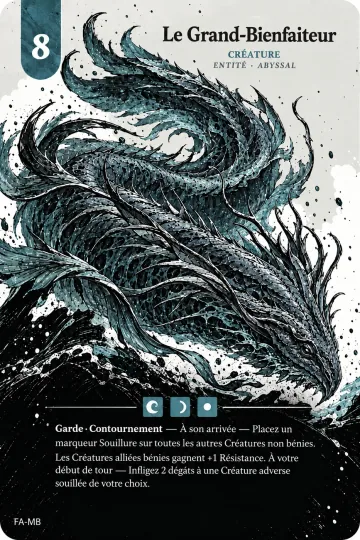
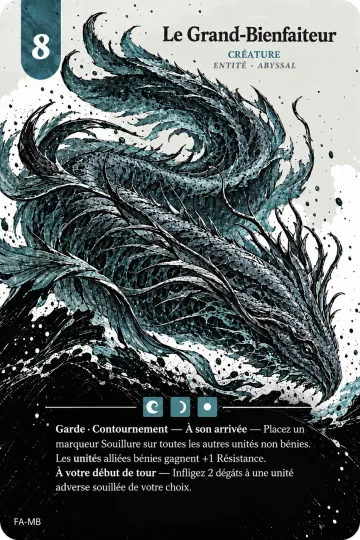
Full-Art repeintes : Gros Bisou !, L'Appât à Moustaches, Le Grand-Bienfaiteur Abyssale, Vigie aux Fissures
Textes peints relus : conformes aux cartes. Le drapeau « à repeindre »
tombe, les quatre Full-Art deviennent obtenables.

Claude-Session: https://claude.ai/code/session_01U6T6kW91yzdAdCqsxsJjLe

diff --git a/game/cosmetics/artworks.ts b/game/cosmetics/artworks.ts
@@ -131,13 +131,8 @@ const ALTERNATE_ARTS: Record<string, CardAlternateArt> = {
     styled: true,
     fullArt: { textePeint: "À l'arrivée : gagne +?/+0 tant qu'il reste en jeu. Réussite critique : gagne Pied marin ce tour. Échec critique : subit 1 dégât." },
   },
-  "gros-bisou": {
-    styled: true,
-    fullArt: {
-      textePeint: "Chaîne — Lorsqu'une Créature adverse attaque, elle perd 2 Puissance pour cette attaque.",
-      aRepeindre: "« une Créature adverse » au lieu de « une unité adverse » (28/10/2026), et la ligne de type peinte dit « Créature — Poisson » pour un Objet.",
-    },
-  },
+  // Repeinte le 28/10/2026 : « une unité adverse », ligne de type « Objet ».
+  "gros-bisou": { styled: true, fullArt: { textePeint: "Chaîne — Lorsqu'une unité adverse attaque, elle perd 2 Puissance pour cette attaque." } },
   "il-capitano-naufrage": { styled: true, fullArt: { textePeint: "La première fois qu'il subit des dégâts, il perd définitivement 3 Puissance et 2 Résistance." } },
   "jugement-du-phare": {
     styled: true,
@@ -153,13 +148,8 @@ const ALTERNATE_ARTS: Record<string, CardAlternateArt> = {
   },
   "la-taverne-avant-le-donjon": { styled: true, fullArt: { textePeint: "Première unité alliée renvoyée en main pendant votre tour : récupérez 1 Ancrage." } },
   "lampe-de-pont-rouge": { styled: true, fullArt: { textePeint: "Équipez un Marin. Tant que vous êtes en Houle ou Tempête, il gagne +1 Puissance." } },
-  "lappat-a-moustaches": {
-    styled: true,
-    fullArt: {
-      textePeint: "Les autres unités Félin gagnent +2/+2.",
-      aRepeindre: "« alliées » manque : la carte dit « Les autres unités Félin alliées gagnent +2/+2. ».",
-    },
-  },
+  // Repeinte le 28/10/2026 : « alliées » rétabli.
+  "lappat-a-moustaches": { styled: true, fullArt: { textePeint: "Les autres unités Félin alliées gagnent +2/+2." } },
   "le-brise-ligne": {
     styled: true,
     // Repeinte le 18/10/2026 : « au moins » rétabli.
@@ -183,12 +173,13 @@ const ALTERNATE_ARTS: Record<string, CardAlternateArt> = {
         "À l'arrivée : sur 4+, gagne Pied marin ce tour. Réussite critique : lorsqu'il attaque ce tour, infligez aussi 2 dégâts au Navire adverse.",
     },
   },
+  // Repeinte le 28/10/2026 : « unités ».
   "le-grand-bienfaiteur-abyssal": {
     styled: true,
     fullArt: {
       textePeint:
-        "Garde · Contournement — À son arrivée — Placez un marqueur Souillure sur toutes les autres Créatures non bénies. Les Créatures alliées bénies gagnent +1 Résistance. À votre début de tour — Infligez 2 dégâts à une Créature adverse souillée de votre choix.",
-      aRepeindre: "« Créature(s) » au lieu de « unité(s) » (décision du 28/10/2026).",
+        "Garde · Contournement — À son arrivée — Placez un marqueur Souillure sur toutes les autres unités non bénies. Les unités alliées bénies gagnent +1 Résistance. À votre début de tour — Infligez 2 dégâts à une unité adverse souillée de votre choix.",
+      ecartMineur: "Mots-clés de tête liés par « · » et un tiret, comme la face de carte, au lieu de « Garde. Contournement. ».",
     },
   },
   "le-nain-qui-connait-un-raccourci": {
@@ -253,11 +244,8 @@ const ALTERNATE_ARTS: Record<string, CardAlternateArt> = {
   },
   "vigie-aux-fissures": {
     styled: true,
-    // Repeinte le 20/10/2026 : « survit à des dégâts » rétabli.
-    fullArt: {
-      textePeint: "La première fois à chaque tour qu'une autre unité que vous contrôlez survit à des dégâts, piochez 1 carte puis défaussez-en 1.",
-      aRepeindre: "Défausse retirée le 27/10/2026 : le texte peint dit encore « puis défaussez-en 1 ».",
-    },
+    // Repeinte le 28/10/2026 : la défausse retirée le 27/10 n'y est plus.
+    fullArt: { textePeint: "La première fois à chaque tour qu'une autre unité que vous contrôlez survit à des dégâts, piochez 1 carte." },
   },
 };
 

diff --git a/game/boosters/boosterArtworks.ts b/game/boosters/boosterArtworks.ts
@@ -68,8 +68,7 @@ export const BOOSTER_ARTWORKS: Readonly<Record<string, Readonly<Record<string, r
     lentendant: STYLED_ET_FULL_ART,
     "reine-des-charognes": STYLED_ET_FULL_ART,
   },
-  // Livrées le 28/10/2026. Gros Bisou !, L'Appât et le Grand-Bienfaiteur
-  // n'offrent que leur Styled tant que leur Full-Art est à repeindre.
+  // Livrées le 28/10/2026 (trois Full-Art repeintes le même jour).
   [BOOSTER_LA_MAREE_BENIE]: {
     "amiral-griffenoire": STYLED_ET_FULL_ART,
     "gros-bisou": STYLED_ET_FULL_ART,
